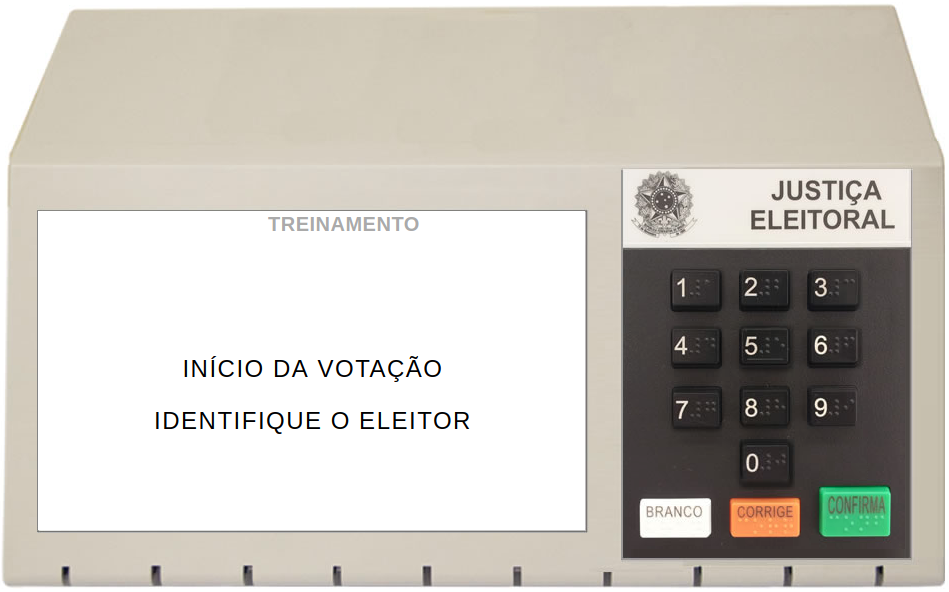
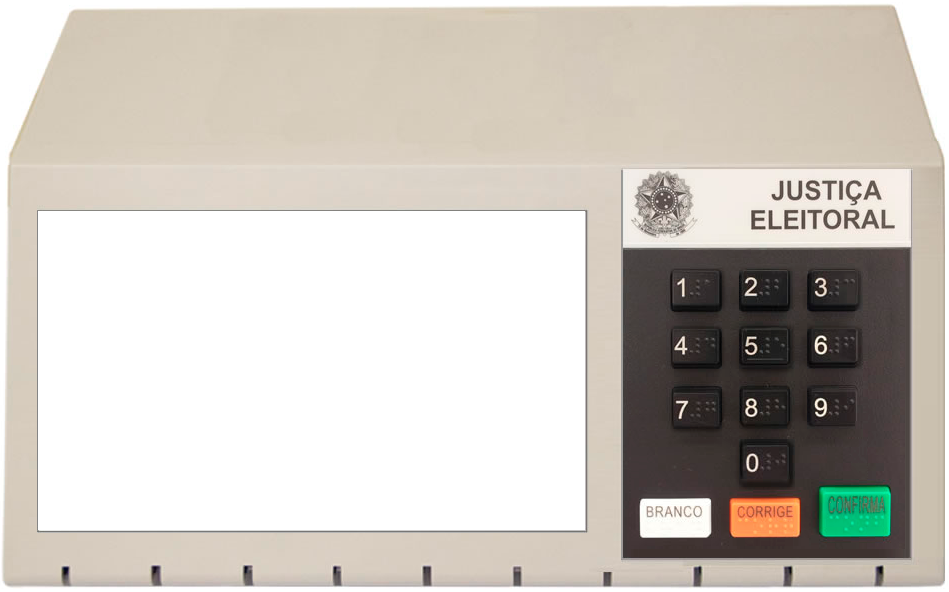
#

diff --git a/main.py b/main.py
@@ -1,10 +1,14 @@
 from graphics import *
 import time
+from pygame import mixer
 
+# mixer.init()
+# mixer.music.load("Python/Urna_eletronica/lib/inter.mp3")
+# mixer.music.play()
 win=GraphWin('Urna',950,596)
 urna=Image(Point(475,298),'Python/Urna_eletronica/lib/urna_eletronica.png').draw(win)
-tela=Rectangle(Point(38,212),Point(587,533)).draw(win)
-tela.setFill('white')
+# tela=Rectangle(Point(38,212),Point(587,533)).draw(win)
+# tela.setFill('white')
 
 def numkey(click):
   if click.getX() in range(670,722) and click.getY() in range(272,312):
@@ -72,38 +76,23 @@ def numkey(click):
     time.sleep(0.09)
     num_down.undraw()
   elif click.getX() in range(822,890) and click.getY() in range(490,540):
-    num_down=Image(Point(860,519),'Python/Urna_eletronica/lib/button/confirma_down.png').draw(win)
+    num_down=Image(Point(859,519),'Python/Urna_eletronica/lib/button/confirma_down.png').draw(win)
     print('Confirma')
     time.sleep(0.09)
     num_down.undraw()
-    
-# Image(Point(695,292),'lib/button/n1_down.png').draw(win)
-# Image(Point(695,292),'lib/button/n2_down.png').draw(win)
-# Image(Point(695,292),'lib/button/n3_down.png').draw(win)
-# Image(Point(695,292),'lib/button/n4_down.png').draw(win)
-# Image(Point(695,292),'lib/button/n5_down.png').draw(win)
-# Image(Point(695,292),'lib/button/n6_down.png').draw(win)
-# Image(Point(695,292),'lib/button/n7_down.png').draw(win)
-# Image(Point(695,292),'lib/button/n8_down.png').draw(win)
-# Image(Point(695,292),'lib/button/n9_down.png').draw(win)
-# Image(Point(695,292),'lib/button/n0_down.png').draw(win)
-# Image(Point(695,292),'lib/button/branco_down.png').draw(win)
-# Image(Point(695,292),'lib/button/corrige_down.png').draw(win)
-# Image(Point(695,292),'lib/button/confirma_down.png').draw(win)
+
 while True:
   numkey(win.getMouse())
-  # print(win.getMouse())
-
 
 
 
 '''
-- colocar hora e data;
-- msg de voto nulo;
-- msg de voto em branco;
-- msg de gravando;
-- msg fim no final;
-- pressionar dos botões;
+- colocar hora e data ();
+- msg de voto nulo ();
+- msg de voto em branco ();
+- msg de gravando ();
+- msg fim no final ();
+- pressionar dos botões (feito);
 
 - deputado(a) federal = 4 digitos
 - deputado(a) estudal = 5 digitos
